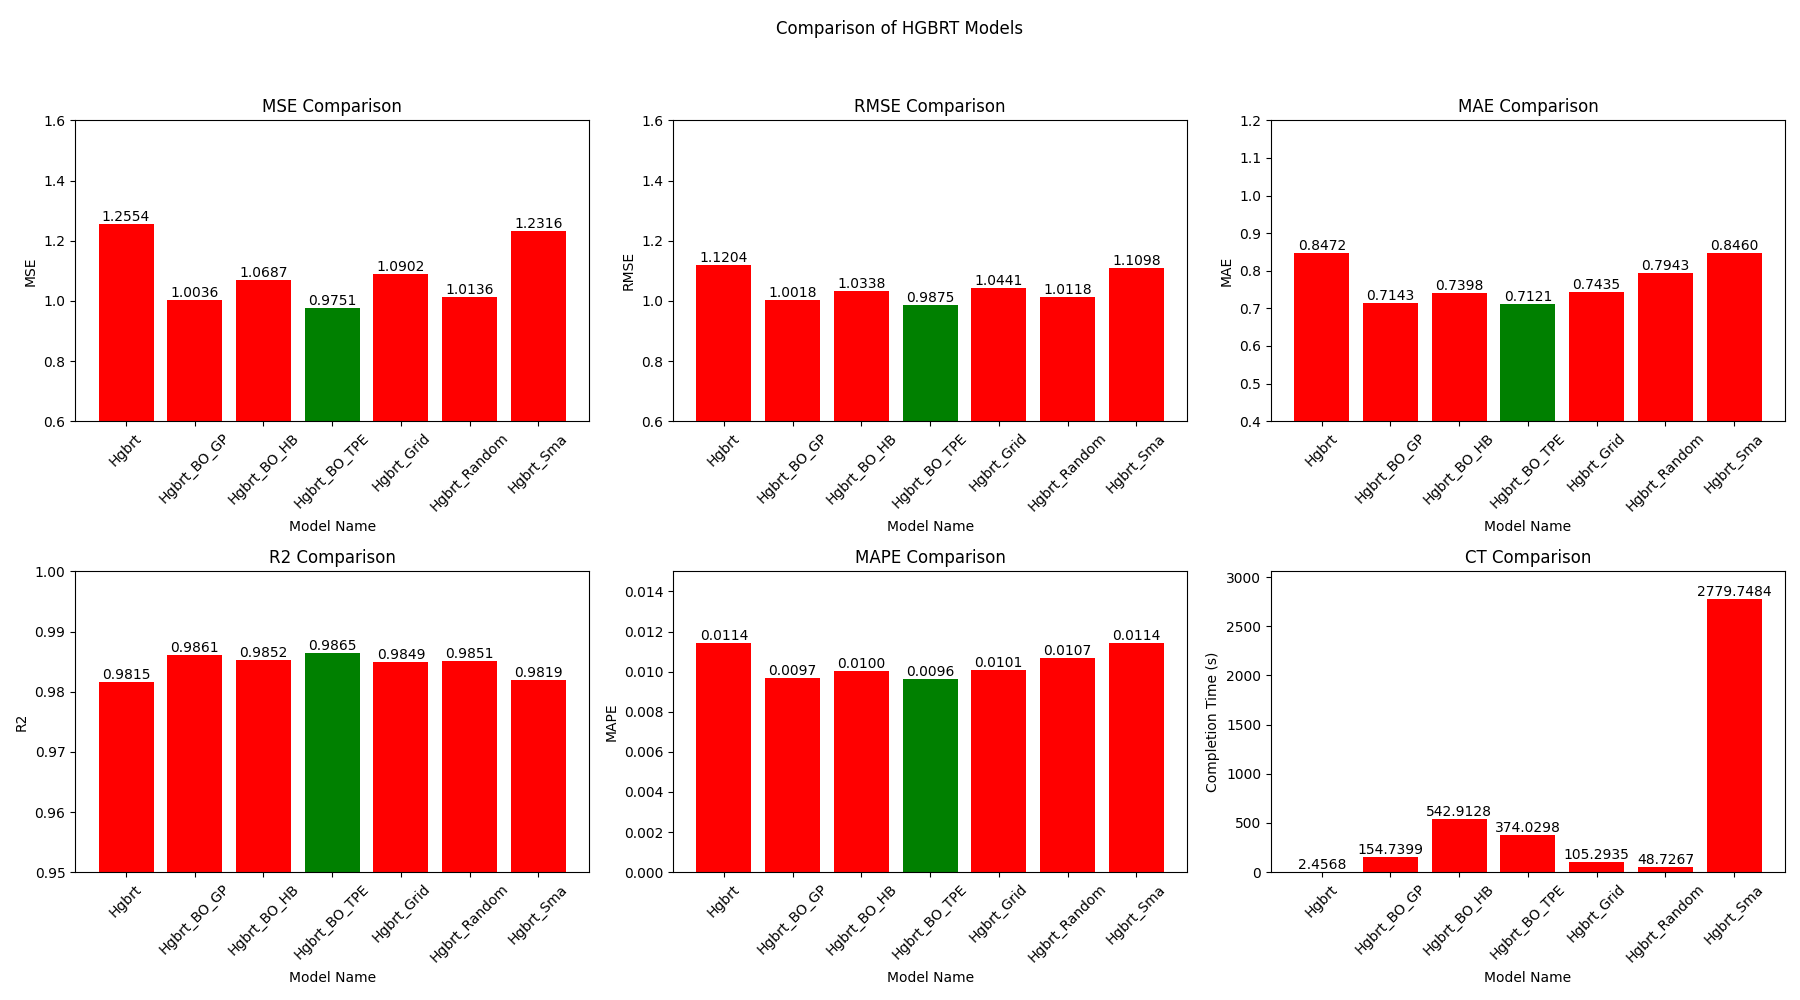
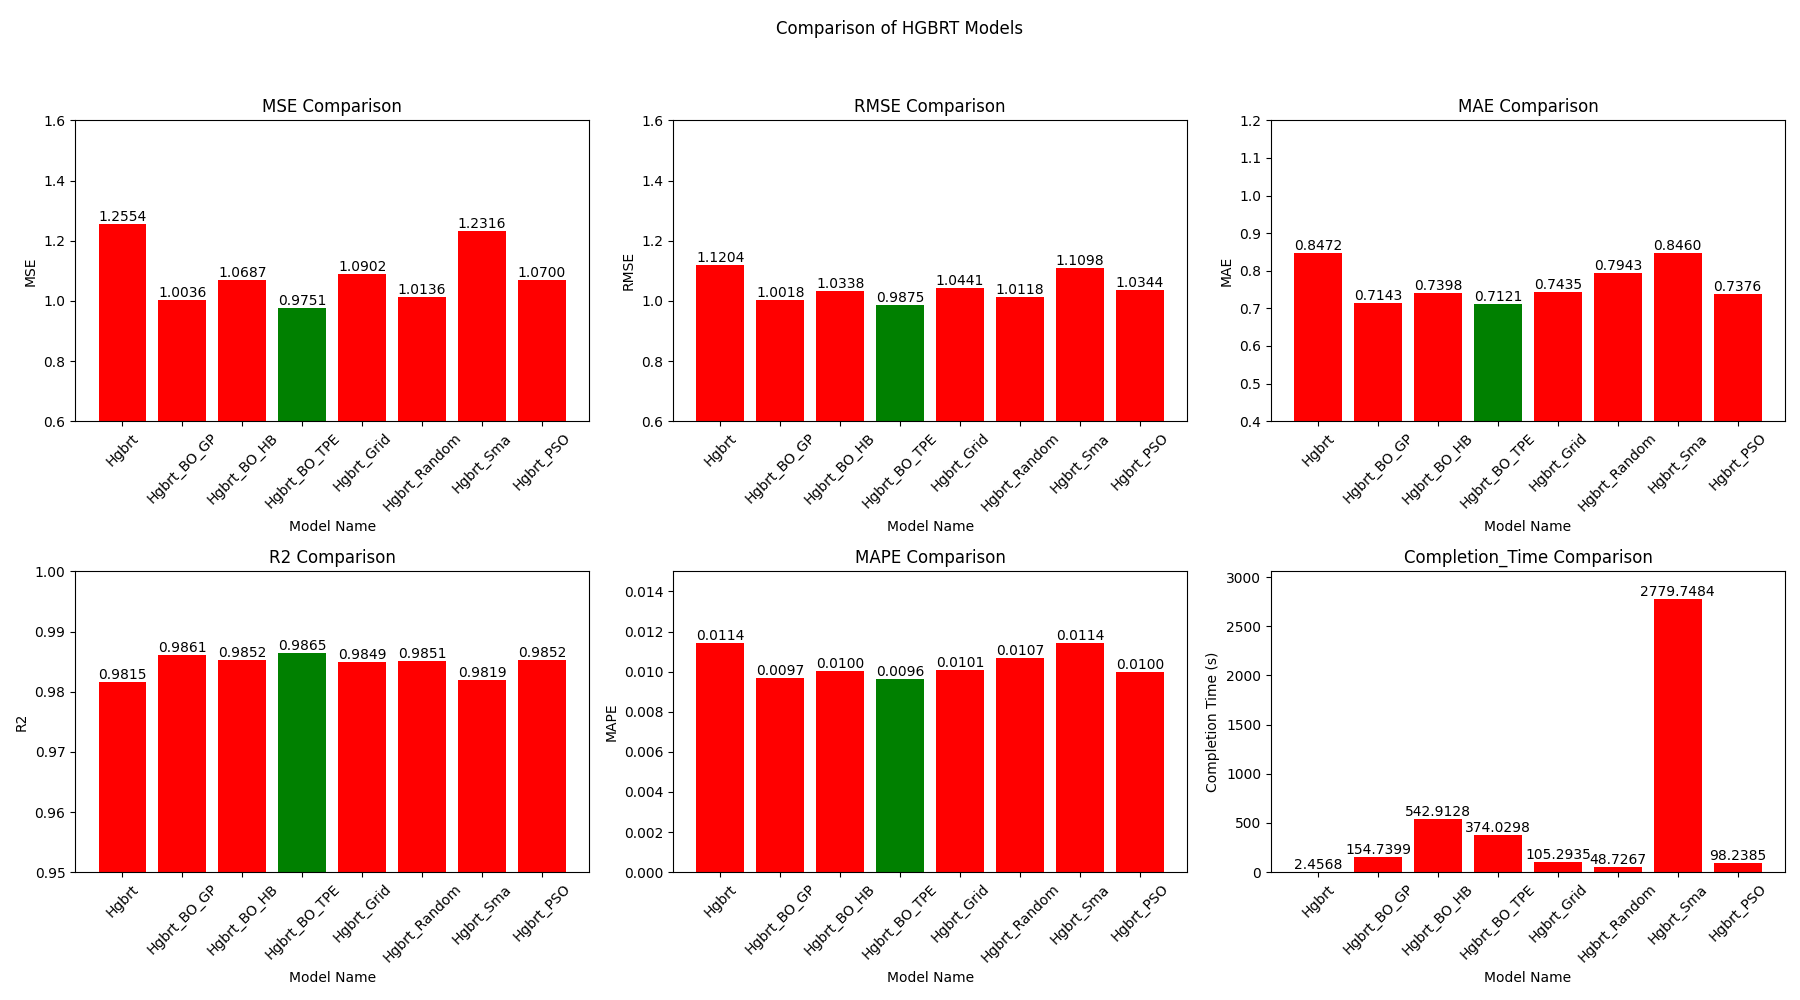
pso implemented with results

diff --git a/src/pso.py b/src/pso.py
@@ -1,24 +1,23 @@
 import numpy as np
 import pandas as pd
-import math
+import time
 from sklearn.ensemble import HistGradientBoostingRegressor
 from sklearn.metrics import mean_squared_error, r2_score, mean_absolute_percentage_error, mean_absolute_error
 from sklearn.model_selection import train_test_split
-import matplotlib.pyplot as plt
 import os
-import time
 
-DIMENSIONS = 6              # Number of dimensions for hyperparameters
-GLOBAL_BEST = 0             # Global Best of Cost function
-B_LO = [0.001, 100, 20, 5, 10, 0]  # Lower boundary of search space
-B_HI = [0.5, 500, 100, 25, 50, 2]  # Upper boundary of search space
+# Constants for Particle Swarm Optimization
+DIMENSIONS = 6              # Number of dimensions (hyperparameters)
+B_LO = [0.001, 100, 20, 5, 10, 0]  # Lower boundary of search space for hyperparameters
+B_HI = [0.5, 500, 100, 25, 50, 2]  # Upper boundary of search space for hyperparameters
 
 POPULATION = 20             # Number of particles in the swarm
 V_MAX = 0.1                 # Maximum velocity value
 PERSONAL_C = 2.0            # Personal coefficient factor
 SOCIAL_C = 2.0              # Social coefficient factor
-CONVERGENCE = 0.001         # Convergence value
-MAX_ITER = 50              # Maximum number of iterations
+CONVERGENCE = 0.001         # Convergence threshold
+MAX_ITER = 10               # Maximum number of iterations
+NO_IMPROVEMENT_LIMIT = 3    # Number of iterations with no improvement to stop early
 
 # Load the dataset
 data = pd.read_csv("../data/augmented_dataset.csv")
@@ -27,6 +26,7 @@ data = pd.read_csv("../data/augmented_dataset.csv")
 X = data[['Application_Type', 'Signal_Strength', 'Latency', 'Required_Bandwidth', 'Allocated_Bandwidth']]
 y = data['Resource_Allocation']
 
+# Train-test split
 X_train, X_test, y_train, y_test = train_test_split(X, y, test_size=0.2, random_state=42)
 
 # Function to calculate metrics
@@ -38,7 +38,7 @@ def calculate_metrics(y_test, y_pred):
     mae = mean_absolute_error(y_test, y_pred)
     return mse, rmse, mae, r2, mape
 
-# Function to append metrics to CSV
+# Function to append metrics to CSV file
 def append_metrics_to_csv(model_name, metrics, completion_time=None, model_category='Boosting Models'):
     column_order = ['Model Name', 'Model Category', 'MSE', 'RMSE', 'MAE', 'R2', 'MAPE', 'Completion Time']
     metrics_dict = {
@@ -53,42 +53,58 @@ def append_metrics_to_csv(model_name, metrics, completion_time=None, model_categ
     }
     df_metrics = pd.DataFrame(metrics_dict)
     file_path = "../data/model_performance_metrics.csv"
-    if not os.path.isfile(file_path):
-        df_metrics.to_csv(file_path, mode='w', header=True, index=False, columns=column_order)
-    else:
-        df_metrics.to_csv(file_path, mode='a', header=False, index=False, columns=column_order)
-
-# Function to append best parameters to CSV
-def append_best_params_to_csv(model_name, best_params):
-    df_params = pd.DataFrame([best_params])
-    df_params.insert(0, 'Model Name', model_name)
     
-    file_path = "../data/model_best_params.csv"
-    if not os.path.isfile(file_path):
-        df_params.to_csv(file_path, mode='w', header=True, index=False)
-    else:
-        df_params.to_csv(file_path, mode='a', header=False, index=False)
+    # Ensure the directory exists
+    os.makedirs(os.path.dirname(file_path), exist_ok=True)
+    
+    # Append to CSV or create if it doesn't exist
+    df_metrics.to_csv(file_path, mode='a', header=not os.path.isfile(file_path), index=False, columns=column_order)
 
-# Particle class
-class Particle():
+# Function to save best parameters to CSV
+def append_best_params_to_csv(model_name, best_params):
+    params_dict = {
+        'Model Name': [model_name],
+        'l2_regularization': [best_params['l2_regularization']],
+        'learning_rate': [best_params['learning_rate']],
+        'max_depth': [best_params['max_depth']],
+        'max_iter': [best_params['max_iter']],
+        'max_leaf_nodes': [best_params['max_leaf_nodes']],
+        'min_samples_leaf': [best_params['min_samples_leaf']]
+    }
+    
+    df_params = pd.DataFrame(params_dict)
+    file_path = '../data/model_best_params.csv'
+    
+    # Ensure the directory exists
+    os.makedirs(os.path.dirname(file_path), exist_ok=True)
+    
+    # Append to CSV or create if it doesn't exist
+    df_params.to_csv(file_path, mode='a', header=not os.path.isfile(file_path), index=False)
+
+# Class representing a particle in the swarm
+class Particle:
     def __init__(self, x, z, velocity):
-        self.pos = x
+        self.pos = np.clip(x, B_LO, B_HI)   # Ensure initial position is within bounds
         self.pos_z = z
         self.velocity = velocity
-        self.best_pos = self.pos.copy()
+        self.best_pos = self.pos.copy()  
+        self.best_pos_z = z   # Initialize best_pos_z with the initial cost value
 
-class Swarm():
+# Class representing the swarm
+class Swarm:
     def __init__(self, pop, v_max):
-        self.particles = []             # List of particles in the swarm
-        self.best_pos = None            # Best particle of the swarm
-        self.best_pos_z = float('inf')  # Best particle of the swarm
-
+        self.particles = []               
+        self.best_pos = None              
+        self.best_pos_z = float('inf')    
+        
+        # Initialize particles
         for _ in range(pop):
-            x = np.random.uniform(B_LO, B_HI)
-            z = self.evaluate_cost(x)
-            velocity = np.random.rand(DIMENSIONS) * v_max
+            x = np.random.uniform(B_LO, B_HI)  
+            z = self.evaluate_cost(x)          
+            velocity = np.random.uniform(-v_max, v_max, DIMENSIONS)  
             particle = Particle(x, z, velocity)
             self.particles.append(particle)
+            
             if particle.pos_z < self.best_pos_z:
                 self.best_pos = particle.pos.copy()
                 self.best_pos_z = particle.pos_z
@@ -108,97 +124,93 @@ class Swarm():
         mse = mean_squared_error(y_test, y_pred)
         return mse
 
+# Particle Swarm Optimization algorithm
 def particle_swarm_optimization():
-    # Initialize plotting variables
-    x = np.linspace(B_LO[0], B_HI[0], 50)
-    y = np.linspace(B_LO[1], B_HI[1], 50)
-    X, Y = np.meshgrid(x, y)
-    fig = plt.figure("Particle Swarm Optimization")
-
-    # Initialize swarm
     swarm = Swarm(POPULATION, V_MAX)
+    inertia_weight = 0.5
 
-    # Initialize inertia weight
-    inertia_weight = 0.5 + (np.random.rand()/2)
-    
     curr_iter = 0
-    start_time = time.time()  # Start time
-    
+    start_time = time.time()  
+    no_improvement_counter = 0
+    previous_best_cost = swarm.best_pos_z
+
     while curr_iter < MAX_ITER:
-        fig.clf()
-        ax = fig.add_subplot(1, 1, 1)
-        Z = np.array([[swarm.evaluate_cost([xi, yi, 20, 5, 10, 0]) for xi in x] for yi in y])
-        c = ax.contourf(X, Y, Z, cmap='viridis')
-        plt.colorbar(c)
-
         for particle in swarm.particles:
-            for i in range(DIMENSIONS):
-                r1 = np.random.uniform(0, 1)
-                r2 = np.random.uniform(0, 1)
-                
-                # Update particle's velocity
-                personal_coefficient = PERSONAL_C * r1 * (particle.best_pos[i] - particle.pos[i])
-                social_coefficient = SOCIAL_C * r2 * (swarm.best_pos[i] - particle.pos[i])
-                new_velocity = inertia_weight * particle.velocity[i] + personal_coefficient + social_coefficient
+            r1, r2 = np.random.rand(2)
+            
+            # Update velocity
+            personal_coefficient = PERSONAL_C * r1 * (particle.best_pos - particle.pos)
+            social_coefficient = SOCIAL_C * r2 * (swarm.best_pos - particle.pos)
+            particle.velocity = inertia_weight * particle.velocity + personal_coefficient + social_coefficient
+            particle.velocity = np.clip(particle.velocity, -V_MAX, V_MAX)
 
-                # Check if velocity is exceeded
-                if new_velocity > V_MAX:
-                    new_velocity = V_MAX
-                elif new_velocity < -V_MAX:
-                    new_velocity = -V_MAX
-
-                particle.velocity[i] = new_velocity
-
-            ax.scatter(particle.pos[0], particle.pos[1], marker='*', c='r')
-            ax.arrow(particle.pos[0], particle.pos[1], particle.velocity[0], particle.velocity[1], head_width=0.1, head_length=0.1, color='k')
-
-            # Update particle's current position
+            # Update position
             particle.pos += particle.velocity
+            particle.pos = np.clip(particle.pos, B_LO, B_HI)
             particle.pos_z = swarm.evaluate_cost(particle.pos)
 
-            # Update particle's best known position
-            if particle.pos_z < swarm.evaluate_cost(particle.best_pos):
+            # Update personal best
+            if particle.pos_z < particle.best_pos_z:
                 particle.best_pos = particle.pos.copy()
+                particle.best_pos_z = particle.pos_z
 
-                # Update swarm's best known position
+                # Update global best
                 if particle.pos_z < swarm.best_pos_z:
                     swarm.best_pos = particle.pos.copy()
                     swarm.best_pos_z = particle.pos_z
-                    
-            # Check if particle is within boundaries
-            for dim in range(DIMENSIONS):
-                if particle.pos[dim] > B_HI[dim]:
-                    particle.pos[dim] = np.random.uniform(B_LO[dim], B_HI[dim])
-                    particle.pos_z = swarm.evaluate_cost(particle.pos)
-                if particle.pos[dim] < B_LO[dim]:
-                    particle.pos[dim] = np.random.uniform(B_LO[dim], B_HI[dim])
-                    particle.pos_z = swarm.evaluate_cost(particle.pos)
 
-        plt.subplots_adjust(right=0.95)
-        plt.pause(0.00001)
+        # Update inertia weight
+        inertia_weight *= 0.99
+
         print(f"Iteration {curr_iter + 1}/{MAX_ITER}: Best Cost = {swarm.best_pos_z}")
 
-        # Check for convergence
-        if abs(swarm.best_pos_z - GLOBAL_BEST) < CONVERGENCE:
-            print("The swarm has met convergence criteria after " + str(curr_iter) + " iterations.")
-            break
+        if abs(previous_best_cost - swarm.best_pos_z) < CONVERGENCE:
+            no_improvement_counter += 1
+            if no_improvement_counter >= NO_IMPROVEMENT_LIMIT:
+                print(f"No significant improvement for {NO_IMPROVEMENT_LIMIT} consecutive iterations. Stopping early.")
+                break
+        else:
+            no_improvement_counter = 0
+            previous_best_cost = swarm.best_pos_z
+
         curr_iter += 1
 
-    end_time = time.time()  # End time
+    end_time = time.time()  
     completion_time = end_time - start_time
 
-    # Display final results
     print("Best Parameters found: ", swarm.best_pos)
     print("Best Cost: ", swarm.best_pos_z)
-    append_metrics_to_csv('Particle Swarm Optimization', calculate_metrics(y_test, HistGradientBoostingRegressor(
-        learning_rate=swarm.best_pos[0],
-        max_iter=int(swarm.best_pos[1]),
-        max_leaf_nodes=int(swarm.best_pos[2]),
-        max_depth=int(swarm.best_pos[3]),
-        min_samples_leaf=int(swarm.best_pos[4]),
-        l2_regularization=swarm.best_pos[5],
+
+    best_params = {
+        'learning_rate': swarm.best_pos[0],
+        'max_iter': int(swarm.best_pos[1]),
+        'max_leaf_nodes': int(swarm.best_pos[2]),
+        'max_depth': int(swarm.best_pos[3]),
+        'min_samples_leaf': int(swarm.best_pos[4]),
+        'l2_regularization': swarm.best_pos[5]
+    }
+
+    model = HistGradientBoostingRegressor(
+        learning_rate=best_params['learning_rate'],
+        max_iter=best_params['max_iter'],
+        max_leaf_nodes=best_params['max_leaf_nodes'],
+        max_depth=best_params['max_depth'],
+        min_samples_leaf=best_params['min_samples_leaf'],
+        l2_regularization=best_params['l2_regularization'],
         random_state=42
-    ).predict(X_test)), completion_time)
+    )
+    model.fit(X_train, y_train)
+    y_pred = model.predict(X_test)
 
+    metrics = calculate_metrics(y_test, y_pred)
+    append_metrics_to_csv('Hgbrt_PSO', metrics, completion_time)
+    append_best_params_to_csv('Hgbrt_PSO', best_params)
 
-particle_swarm_optimization()
+    print(f"MSE: {metrics[0]}")
+    print(f"RMSE: {metrics[1]}")
+    print(f"MAE: {metrics[2]}")
+    print(f"R2: {metrics[3]}")
+    print(f"MAPE: {metrics[4]}")
+
+if __name__ == "__main__":
+    particle_swarm_optimization()

diff --git a/src/compare.py b/src/compare.py
@@ -10,7 +10,7 @@ hgbrt_df = metrics_df[metrics_df['Model Name'].str.startswith(('Hgbrt'))]
 
 # Define metrics to compare, excluding 'Adjusted R2'
 metrics = ['MSE', 'RMSE', 'MAE', 'R2', 'MAPE']
-additional_metric = 'CT'
+additional_metric = 'Completion_Time'
 
 # Custom y-limits for each metric
 y_limits = {
@@ -19,7 +19,7 @@ y_limits = {
     'MAE': (0.4, 1.2),
     'R2': (0.95, 1),
     'MAPE': (0, 0.015),
-    'CT': (0, hgbrt_df['CT'].max() * 1.1)  # Adjust based on actual data
+    'Completion_Time': (0, hgbrt_df['Completion_Time'].max() * 1.1)  # Adjust based on actual data
 }
 
 # Initialize the plot
